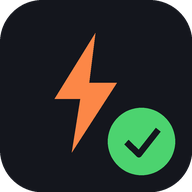
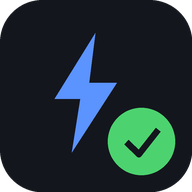
Switch accent color from coral to blue
Updates the brand accent token (#fc8747 -> #5b93ff) across the CSS
and regenerates the app icons to match. Bumps the service worker
cache so already-installed clients pick up the new colors.

Changed region(s): [[0.2812, 0.1562, 0.625, 0.7812]]

diff --git a/index.html b/index.html
@@ -47,10 +47,10 @@ try {
   --ink-dim: #6d6f78;
 
   /* brand */
-  --accent: #fc8747;
-  --accent-strong: #ed6d2e;
-  --accent-soft: rgba(252, 135, 71, 0.14);
-  --accent-fg: #1a120b;
+  --accent: #5b93ff;
+  --accent-strong: #3d6fe0;
+  --accent-soft: rgba(91, 147, 255, 0.14);
+  --accent-fg: #0c1526;
 
   --green: #4cd36f;
   --green-soft: rgba(76, 211, 111, 0.13);
@@ -85,7 +85,7 @@ html[data-theme="light"] {
   --ink: #23252c;
   --ink-mid: #5d5f68;
   --ink-dim: #94959c;
-  --accent-soft: rgba(237, 109, 46, 0.12);
+  --accent-soft: rgba(61, 111, 224, 0.12);
   --green: #17a94c;
   --green-soft: rgba(23, 169, 76, 0.11);
   --gold: #c78d10;

diff --git a/sw.js b/sw.js
@@ -5,7 +5,7 @@
 
 /* Bump this version whenever index.html (or any shell asset) changes —
    it triggers a fresh install and drops the old cache on activate. */
-const CACHE = 'fastwork-tracker-v2';
+const CACHE = 'fastwork-tracker-v3';
 
 const SHELL = [
   './',
